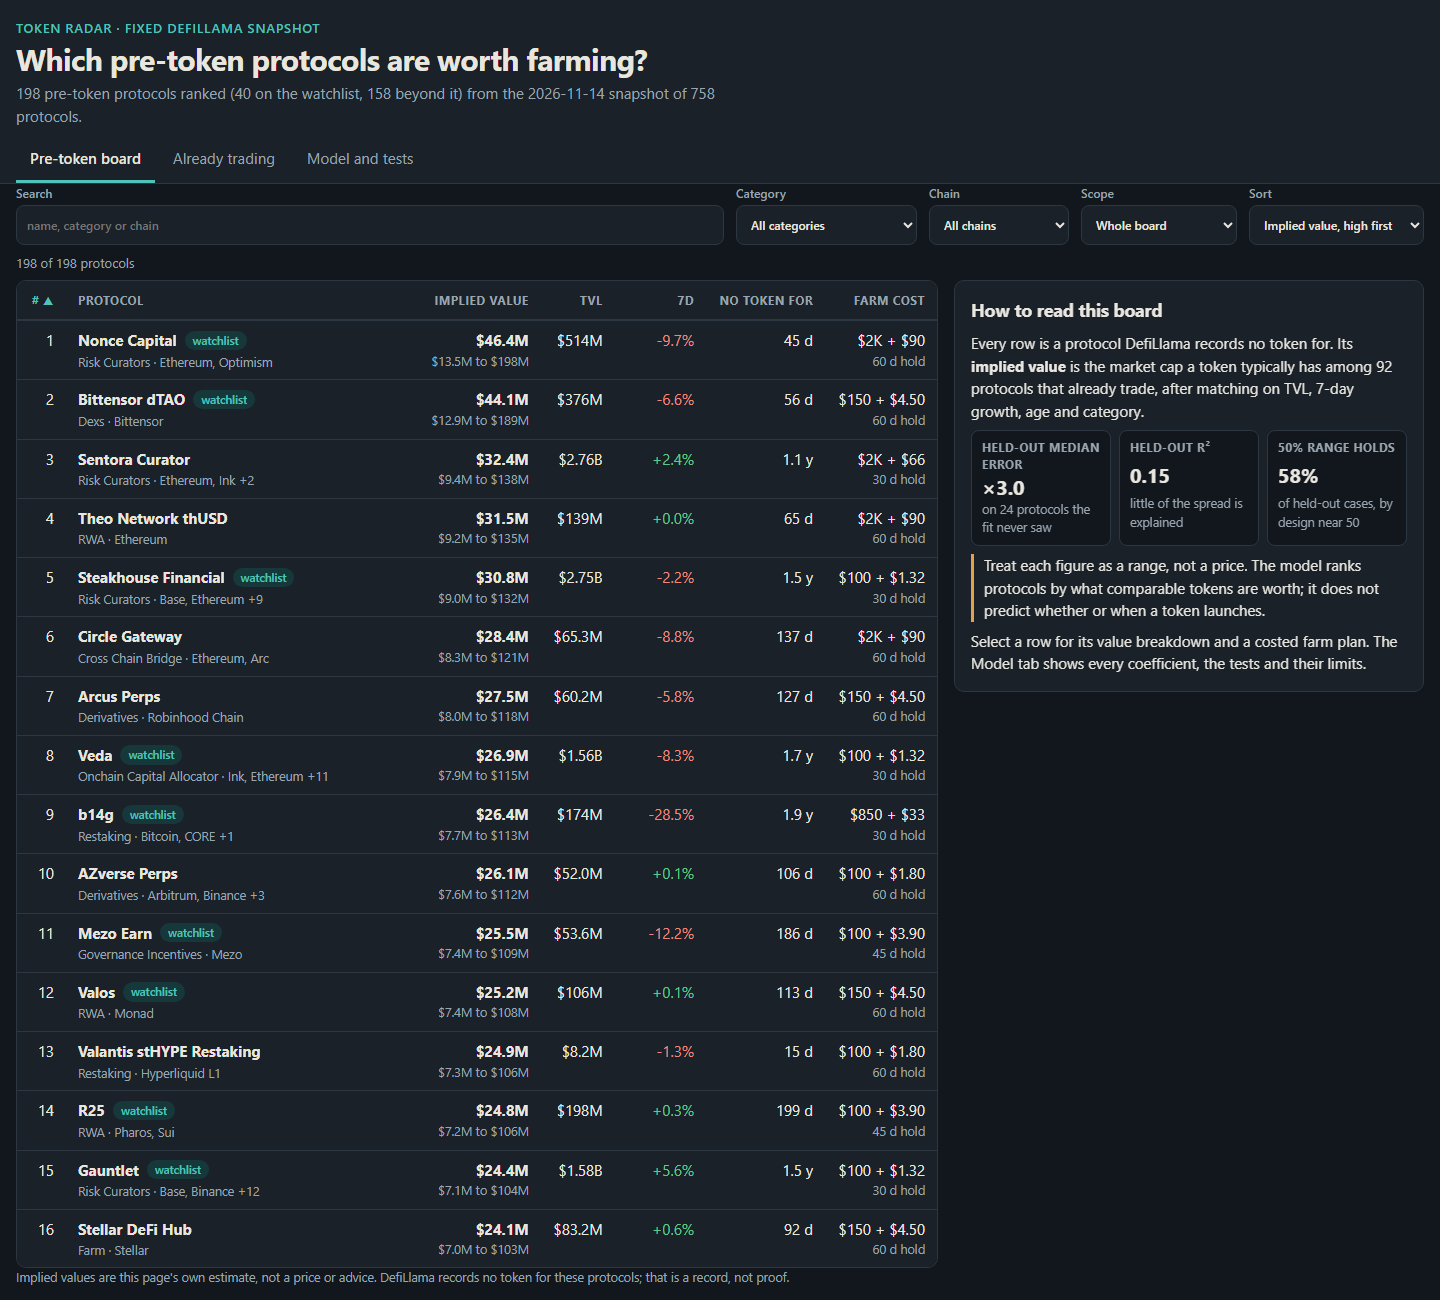
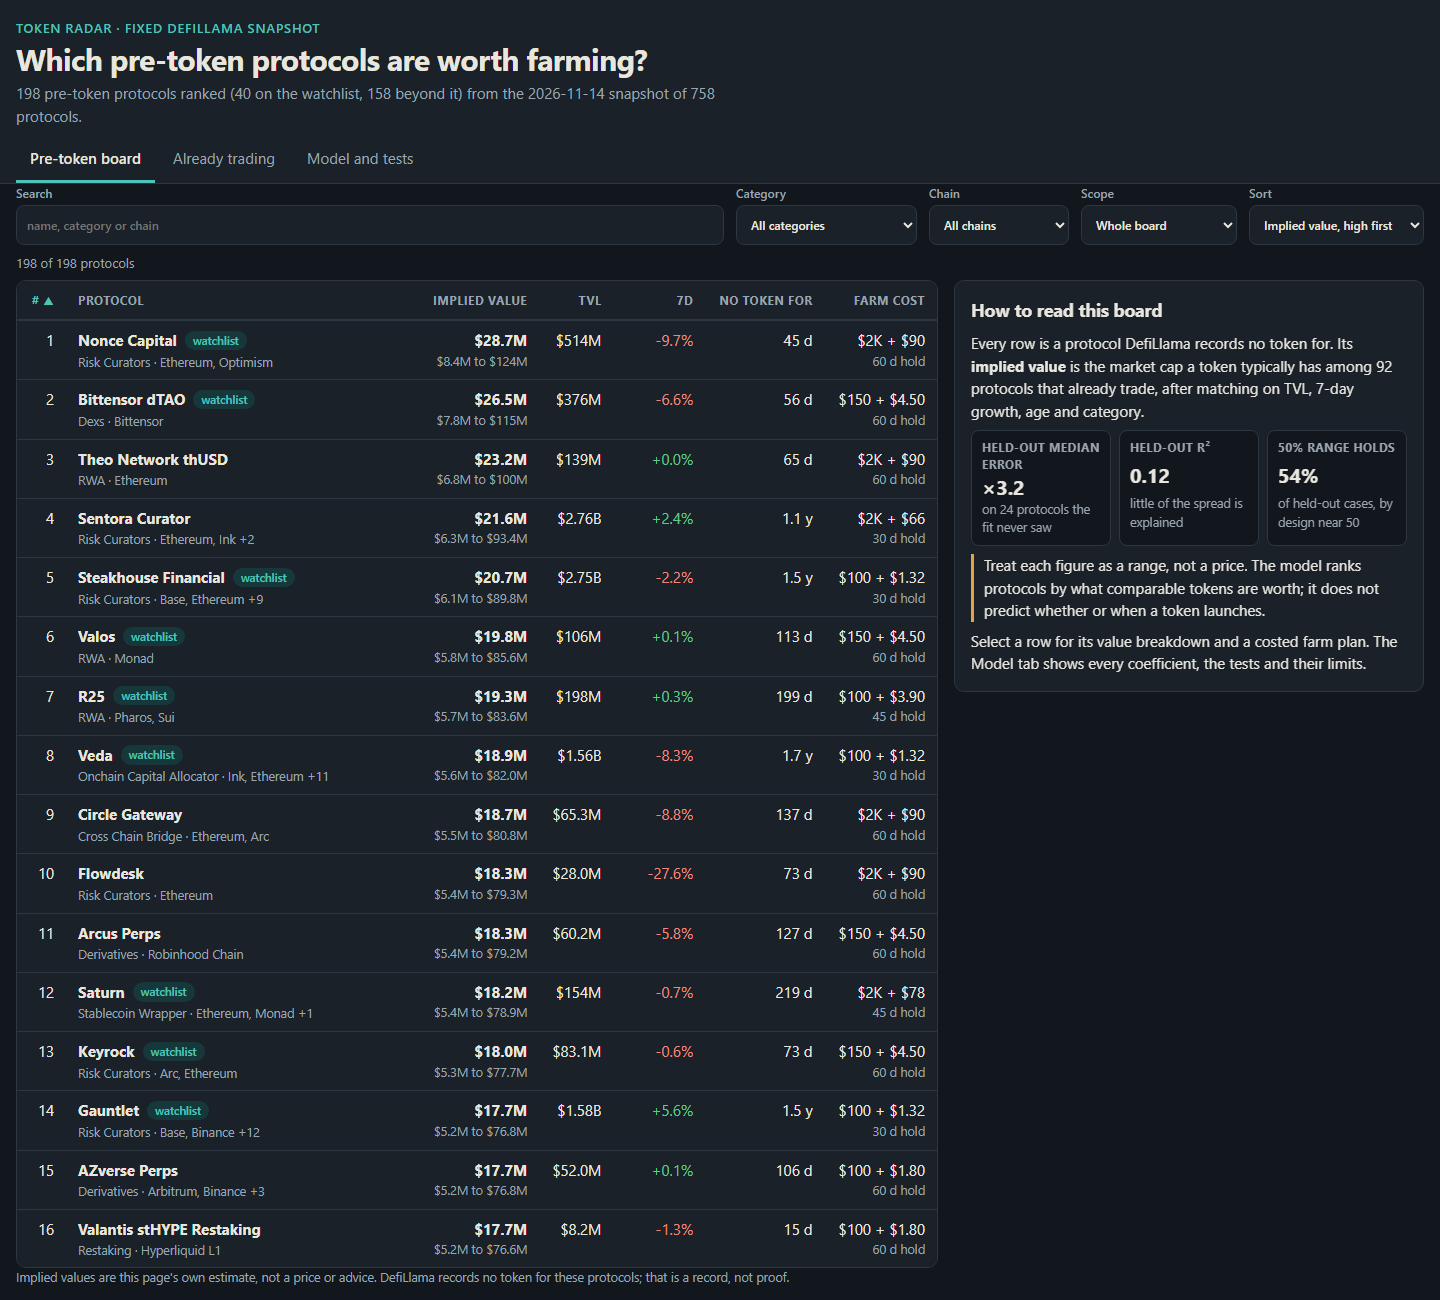
Derive model-tab claims from the fit, widen penalty grid, add model screenshot

diff --git a/dashboard/app.js b/dashboard/app.js
@@ -192,12 +192,16 @@
       h('section', null, h('h2', { text: 'Fitted terms' }),
         h('table', { class: 'mt' }, h('caption', { text: 'Coefficients refit on all ' + M.n + ' protocols; interval is the 5th to 95th percentile of 200 bootstrap refits' }), h('thead', null, h('tr', null, ['Term', 'Value', '90% interval', 'Distinguishable from none?'].map((x, i) => h('th', { scope: 'col', class: i ? 'num' : '', text: x })))),
           h('tbody', null, M.terms.map((x) => { const none = x.id === 'tvl' ? 0 : 1; const sure = x.lo > none || x.hi < none; return h('tr', null, h('th', { scope: 'row', text: x.label }), h('td', { class: 'num', text: f2(x.value) }), h('td', { class: 'num', text: f2(x.lo) + ' to ' + f2(x.hi) }), h('td', { class: 'num', text: sure ? 'yes' : 'no' })); }))),
-        h('p', { class: 'sub', text: 'Only TVL (and perhaps age) clearly separates from "no effect". Growth, the age-unknown flag and most category factors have intervals that include no effect, so their pull on the ranking is small.' })),
+        h('p', { class: 'sub', text: (() => {
+          const sure = M.terms.filter((x) => { const none = x.id === 'tvl' ? 0 : 1; return x.lo > none || x.hi < none; }).map((x) => x.label.replace(/^Factor,? /, '').replace(/^Factor /, ''));
+          const growth = M.terms.find((x) => x.id === 'growth');
+          return 'Intervals that exclude "no effect": ' + (sure.length ? sure.join('; ') : 'none') + '. Every other term has an interval that includes no effect (growth: ' + f2(growth.lo) + ' to ' + f2(growth.hi) + ' per +10 points), so its pull on the ranking is not established.';
+        })() })),
       h('section', null, h('h2', { text: 'Held-out test and cross-validation' }),
         h('p', null, 'A hash of the slug sets aside ' + M.n_test + ' of the ' + M.n + ' protocols. Every choice (penalty, terms) was made on the other ' + M.n_fit + '; the held-out set was scored once.'),
         mtable('Held-out test, ' + M.n_test + ' protocols', M.held_out, h('tr', null, h('th', { scope: 'row', text: 'Baseline: one median cap for all' }), [f2(M.baseline_median.r2), '×' + M.baseline_median.median_factor.toFixed(1), Math.round(M.baseline_median.within_2x * 100) + '%', Math.round(M.baseline_median.within_5x * 100) + '%', f2(M.baseline_median.spearman)].map((x) => h('td', { class: 'num', text: x })))),
         mtable('Repeated 10-fold cross-validation over all ' + M.n + ' protocols (20 repeats)', M.cross_validated),
-        h('p', null, h('strong', { text: 'Honest reading. ' }), 'The full model explains about ' + Math.round(Math.max(0, cv.r2) * 100) + '% of the spread in log market cap out of fold (' + Math.round(Math.max(0, t.r2) * 100) + '% on the held-out set) and is typically off by a factor of ' + cv.median_factor.toFixed(1) + '. It does beat a single median cap, mainly by ordering protocols, but adding growth or category does not beat TVL alone here: the differences are inside the noise of ' + M.n_test + ' held-out cases. The terms stay because the radar is asked about them, shrunk by the penalty, not because the test rewards them. Survivors bias the sample too: protocols that failed to launch a token are not in it.')),
+        h('p', null, h('strong', { text: 'Honest reading. ' }), 'The full model explains about ' + Math.round(Math.max(0, cv.r2) * 100) + '% of the spread in log market cap out of fold (' + Math.round(Math.max(0, t.r2) * 100) + '% on the held-out set) and is typically off by a factor of ' + cv.median_factor.toFixed(1) + '. Against one median cap for all it ' + (t.r2 > M.baseline_median.r2 ? 'does better' : 'does not do better') + ' on the held-out set (R² ' + f2(t.r2) + ' against ' + f2(M.baseline_median.r2) + ', rank correlation ' + f2(t.spearman) + ' against ' + f2(M.baseline_median.spearman) + '). Held-out R² for TVL alone is ' + f2(M.held_out.tvl.r2) + ', with growth ' + f2(M.held_out['tvl+growth'].r2) + ', with age ' + f2(M.held_out['tvl+age'].r2) + ', with category ' + f2(M.held_out['tvl+group'].r2) + ': on ' + M.n_test + ' protocols those gaps are noise, so no term is shown to help. The terms stay because the radar is asked about them, shrunk by the penalty' + (M.lambda === 300 ? ' (the strongest tried)' : '') + '. Survivors bias the sample too: protocols that failed to launch a token are not in it.')),
       h('section', null, h('h2', { text: 'Estimate against actual' }), scatter(), h('p', { class: 'sub', text: 'Each dot is a live token. The line is a perfect estimate; filled dots were held out of the first fit. The 50% range on each board row is the middle half of these errors: ×' + Math.pow(10, M.band.q25).toFixed(2) + ' to ×' + Math.pow(10, M.band.q75).toFixed(2) + '.' })),
       h('section', null, h('h2', { text: 'Check it in this page' }), h('button', { type: 'button', class: 'btn', onclick: refit }, 'Re-fit the model here'), h('p', { id: 'refit', class: 'sub', role: 'status', text: 'Runs engine.js on the comparable rows in data.js and compares it with the numbers main.ts wrote.' })),
       h('section', null, h('h2', { text: 'Farm plan assumptions' }), h('p', null, 'Plans are built by farmPlan in engine.js from category, first listed chain, TVL, age and 7-day growth. Hold days: 60 under 180 days old, 45 under a year, else 30 (30 if age is unknown). Capital is the gas total divided by 4%, rounded up to $50 and held between $100 and $2,000. Gas per transaction is a rough assumption, not a snapshot figure: Ethereum $' + E.GAS.Ethereum + ', Bitcoin $' + E.GAS.Bitcoin + ', Tron $' + E.GAS.Tron + ', Solana $' + E.GAS.Solana + ', common L2 and low-fee chains $0.12, others $0.30. Time is a typical hands-on estimate. Nothing guarantees an airdrop.')),

diff --git a/main.ts b/main.ts
@@ -64,5 +64,6 @@ writeFileSync(
 const hold = fit.held_out.full;
 process.stdout.write(
   `token radar: ${radar.counts.protocols} protocols, ${radar.counts.watchlist} on the watchlist, ${board.length} rows (${radar.counts.early} beyond it), model fitted on ${fit.n} live tokens\n` +
-    `token radar: held-out R2 ${hold.r2.toFixed(2)}, median error x${hold.median_factor.toFixed(2)}; wrote ${files.length} dashboard files and ${shots.length} screenshots\n`,
+    `token radar: held-out R2 ${hold.r2.toFixed(2)}, median error x${hold.median_factor.toFixed(2)}, ridge penalty ${fit.lambda}; top of the board is ${board[0]!.name}\n` +
+    `token radar: wrote ${files.length} dashboard files and ${shots.length} screenshots\n`,
 );

diff --git a/dashboard/engine.js b/dashboard/engine.js
@@ -10,7 +10,7 @@
 
   var DAY = 86400000;
   var GROWTH_MIN = -50, GROWTH_MAX = 100; // per cent: the clamp on seven-day TVL change
-  var LAMBDAS = [0.1, 0.3, 1, 3, 10, 30];
+  var LAMBDAS = [0.1, 0.3, 1, 3, 10, 30, 100, 300];
   // Feature order: 0 log10 TVL, 1 growth, 2 log2 age, 3 age unknown, 4..7 category group dummies.
   var GROUPS = ['credit', 'dex', 'vault', 'rwa']; // derivatives (4 comparables) and the rest fall into 'other'
   var NAMES = ['log10 TVL', '7d growth', 'log2 age', 'age unknown'].concat(GROUPS.map(function (g) { return 'group ' + g; }));
